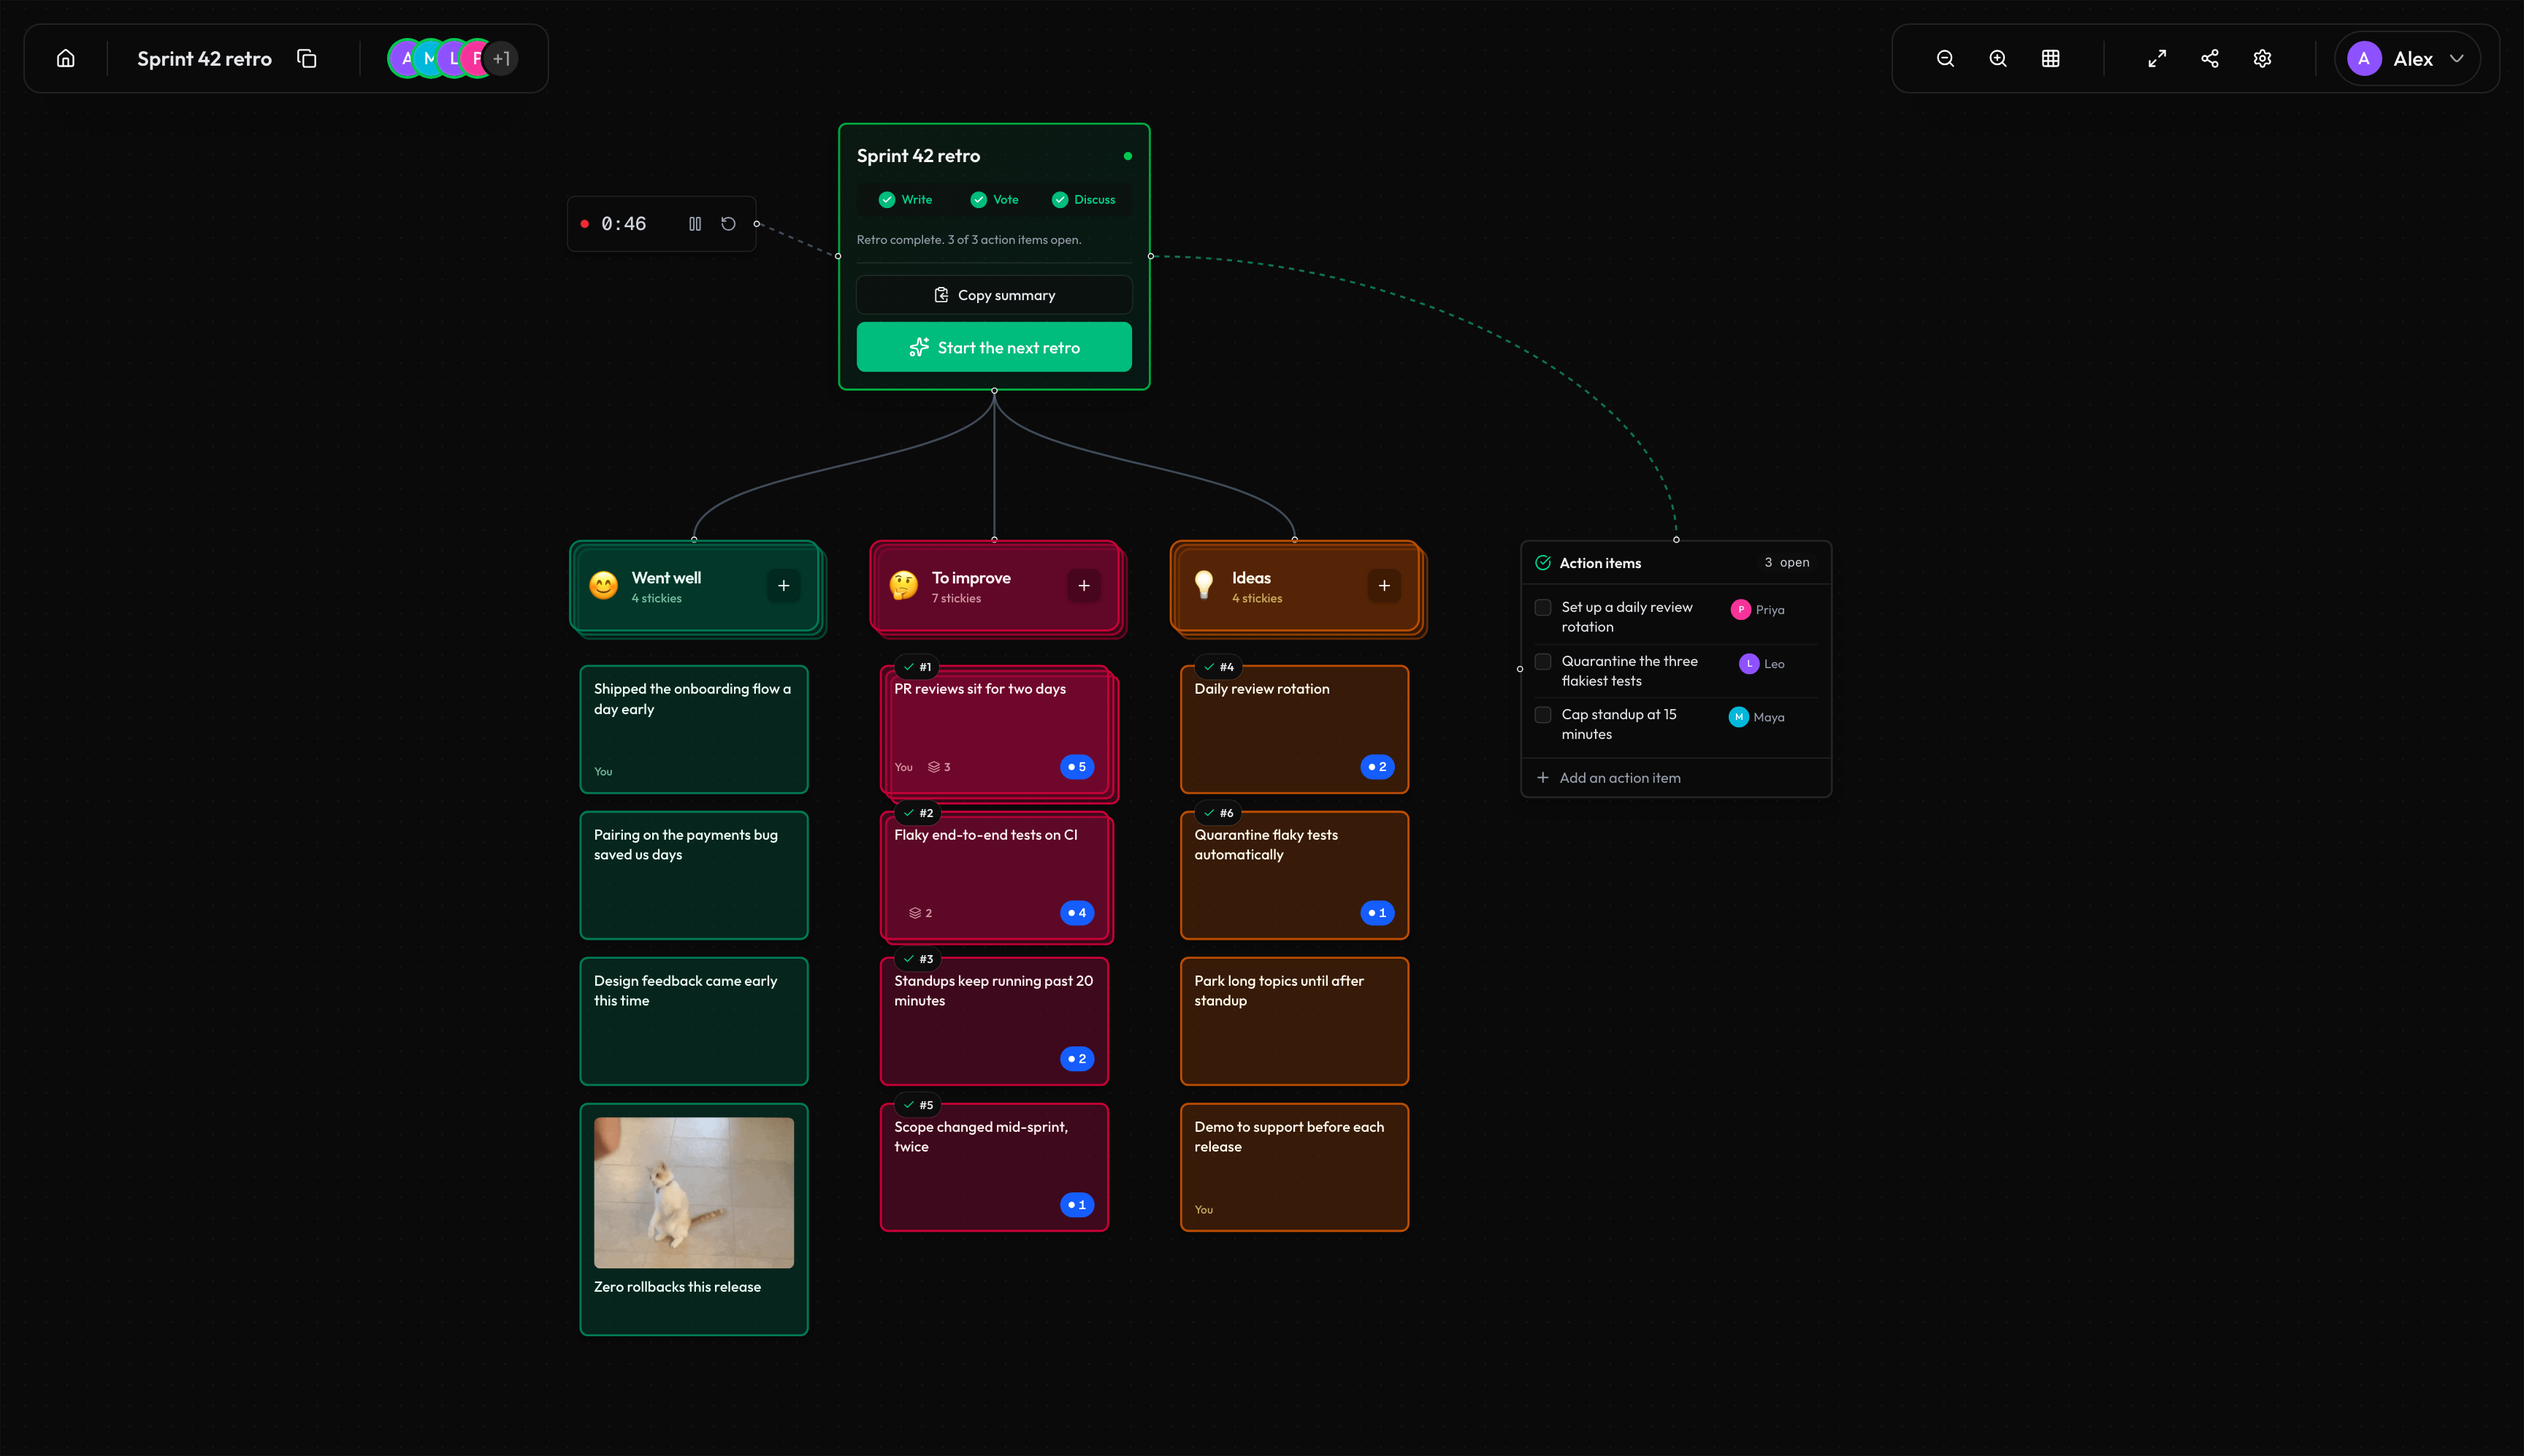
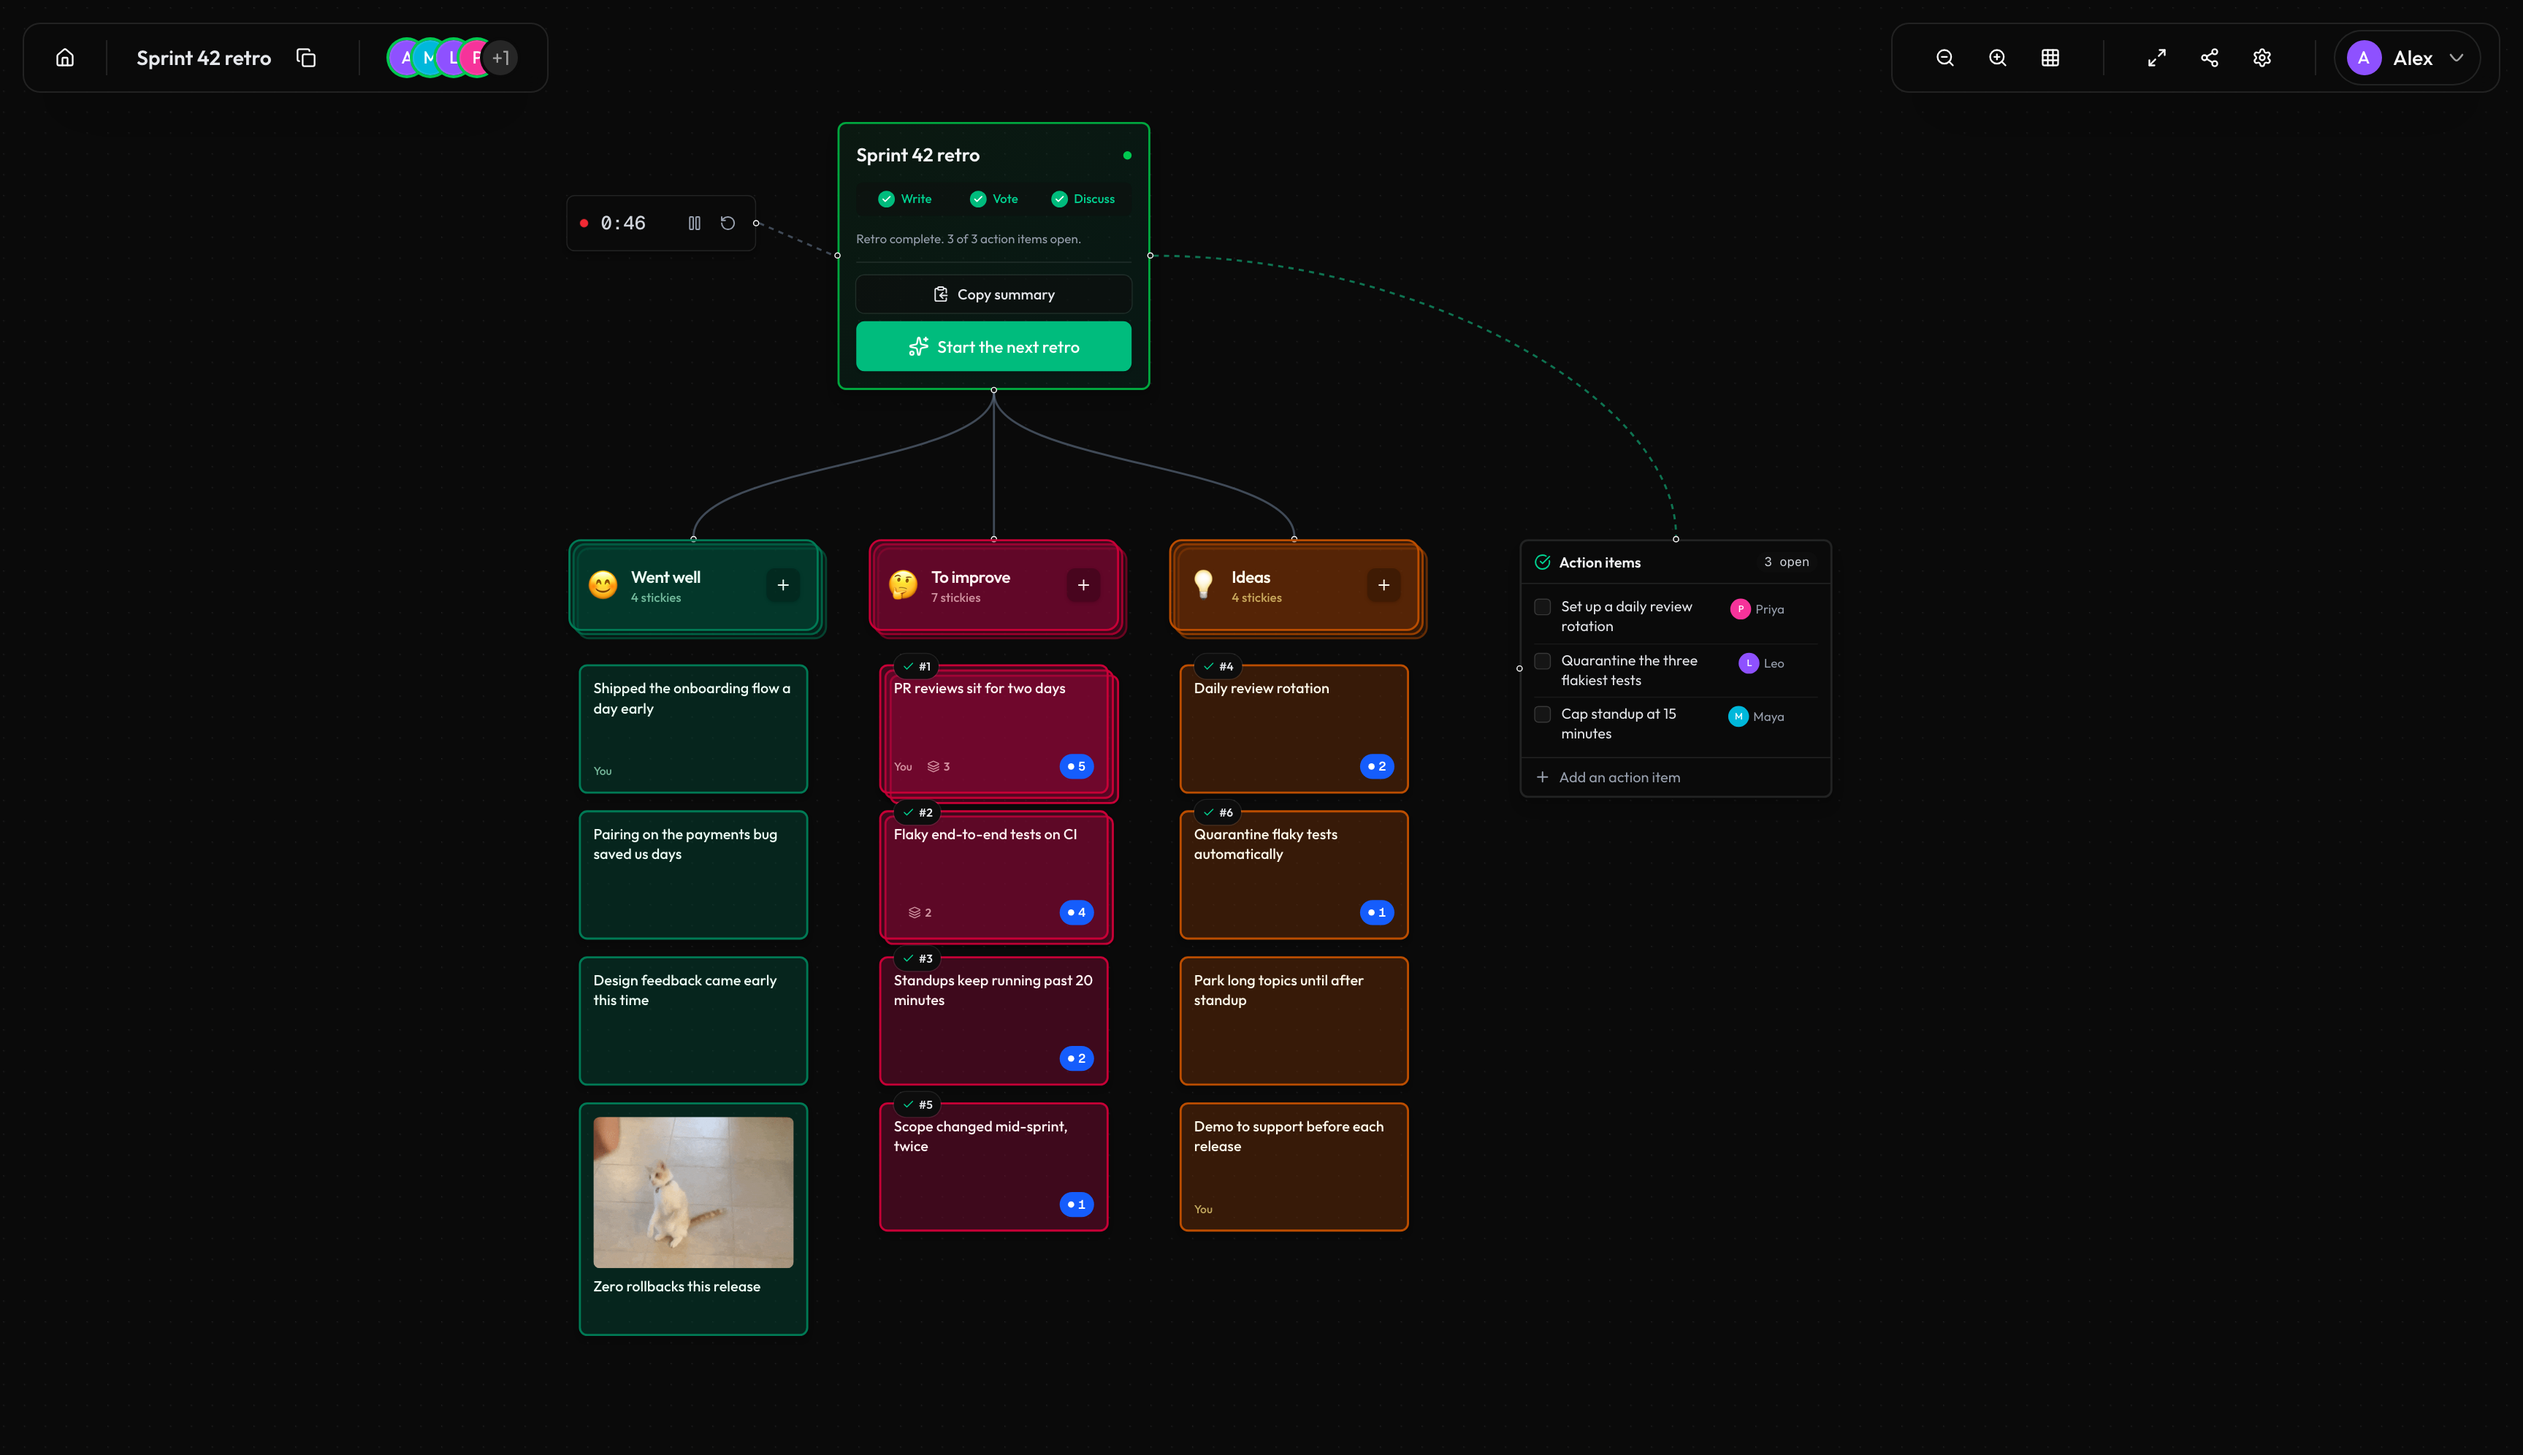
fix: the homepage previews show the whole board
The frame was a 4:3 box (square on phones) with object-cover, so the 16:9 screenshots lost their right side. The frame now takes the screenshot's shape, in a macOS window with an address bar and a glow in the board's colour. The screenshots lose a baked-in 1px border and the poker shots their rounded window corners.

diff --git a/src/components/homepage/app-preview.tsx b/src/components/homepage/app-preview.tsx
@@ -2,9 +2,10 @@
 
 import Image from "next/image";
 import { useState, type ComponentType } from "react";
-import { Zap, Shield, BarChart3, PenLine, EyeOff, ListChecks } from "lucide-react";
+import { Zap, Shield, BarChart3, PenLine, EyeOff, ListChecks, Lock } from "lucide-react";
 import { APP_PREVIEW } from "./copy";
 import { CeremonyTabs, CeremonyTabList, CeremonyTabPanel, type Ceremony } from "./ceremony-tabs";
+import { cn } from "@/lib/utils";
 
 type FeatureId =
   | (typeof APP_PREVIEW.poker.features)[number]["id"]
@@ -22,6 +23,15 @@ const ICONS: Record<FeatureId, ComponentType<{ className?: string; strokeWidth?:
 
 const CEREMONIES: Ceremony[] = ["poker", "retro"];
 
+/** Every board screenshot is captured at this size, so the frame takes its shape and never crops. */
+const SHOT = { width: 3454, height: 1992 };
+
+/** The glow behind the window, in the colour of the board's session node. */
+const GLOW: Record<Ceremony, string> = {
+  poker: "bg-blue-500/15 dark:bg-blue-500/20",
+  retro: "bg-emerald-500/15 dark:bg-emerald-500/20",
+};
+
 /** Both boards (spec §18.2), each captured in light and dark. */
 export function AppPreview() {
   const [ceremony, setCeremony] = useState<Ceremony>("poker");
@@ -34,9 +44,9 @@ export function AppPreview() {
         onValueChange={setCeremony}
         className="mx-auto max-w-[90rem] px-6 lg:px-8"
       >
-        <div className="grid grid-cols-1 lg:grid-cols-12 gap-16 lg:gap-24 items-center">
+        <div className="grid grid-cols-1 lg:grid-cols-[minmax(0,5fr)_minmax(0,8fr)] gap-16 xl:gap-20 items-center">
 
-          <div className="lg:col-span-5 flex flex-col">
+          <div className="flex flex-col">
             <h2 className="text-sm font-bold tracking-widest text-primary uppercase mb-4">
               {APP_PREVIEW.eyebrow}
             </h2>
@@ -75,10 +85,10 @@ export function AppPreview() {
             </div>
           </div>
 
-          <div className="lg:col-span-7 relative">
+          <div className="relative">
             {CEREMONIES.map((c) => (
               <CeremonyTabPanel key={c} value={c}>
-                <PreviewFrame image={APP_PREVIEW[c].image} />
+                <PreviewFrame image={APP_PREVIEW[c].image} glow={GLOW[c]} />
               </CeremonyTabPanel>
             ))}
           </div>
@@ -89,37 +99,49 @@ export function AppPreview() {
   );
 }
 
-function PreviewFrame({ image }: { image: { light: string; dark: string; alt: string } }) {
+function PreviewFrame({
+  image,
+  glow,
+}: {
+  image: { light: string; dark: string; alt: string };
+  glow: string;
+}) {
   return (
-    <div className="relative w-full aspect-square sm:aspect-video lg:aspect-[4/3] rounded-[2rem] overflow-hidden border border-gray-200/80 dark:border-zinc-800/80 bg-white dark:bg-black flex flex-col ring-1 ring-inset ring-black/5 dark:ring-white/5">
-      {/* macOS style browser header */}
-      <div className="flex items-center gap-2 px-4 h-6 sm:h-8 bg-gray-50/80 dark:bg-zinc-900/80 border-b border-gray-200/50 dark:border-zinc-800/50 backdrop-blur-md shrink-0">
-        <div className="flex gap-1.5 sm:gap-2">
-          <div className="w-2 h-2 sm:w-2.5 sm:h-2.5 rounded-full bg-red-400 dark:bg-red-500"></div>
-          <div className="w-2 h-2 sm:w-2.5 sm:h-2.5 rounded-full bg-amber-400 dark:bg-amber-500"></div>
-          <div className="w-2 h-2 sm:w-2.5 sm:h-2.5 rounded-full bg-green-400 dark:bg-green-500"></div>
+    <div className="relative">
+      <div
+        aria-hidden
+        className={cn("pointer-events-none absolute -inset-x-[4%] -inset-y-[8%] rounded-[50%] blur-3xl", glow)}
+      />
+      <figure className="relative overflow-hidden rounded-xl sm:rounded-2xl border border-gray-200 dark:border-zinc-800 bg-white dark:bg-zinc-950 shadow-2xl shadow-gray-900/10 dark:shadow-black/50">
+        {/* macOS style window bar */}
+        <div className="relative flex items-center h-7 sm:h-10 px-3 sm:px-4 bg-gray-50 dark:bg-zinc-900 border-b border-gray-200 dark:border-zinc-800">
+          <div className="flex gap-1.5 sm:gap-2">
+            <div className="size-2 sm:size-3 rounded-full bg-[#ff5f57]" />
+            <div className="size-2 sm:size-3 rounded-full bg-[#febc2e]" />
+            <div className="size-2 sm:size-3 rounded-full bg-[#28c840]" />
+          </div>
+          <div className="absolute left-1/2 -translate-x-1/2 flex items-center gap-1.5 h-4 sm:h-6 px-3 sm:px-10 rounded-md bg-white dark:bg-zinc-950 border border-gray-200 dark:border-zinc-800 text-[9px] sm:text-xs font-medium text-gray-500 dark:text-zinc-400">
+            <Lock className="size-2 sm:size-3" strokeWidth={2.5} />
+            {APP_PREVIEW.address}
+          </div>
         </div>
-      </div>
-      {/* Simulated Glass overlay on top of image container */}
-      <div className="absolute inset-0 pointer-events-none ring-1 ring-inset ring-black/5 dark:ring-white/5 rounded-[2rem] z-10"></div>
-      <div className="relative flex-1 w-full bg-white dark:bg-black">
         <Image
           alt={image.alt}
           src={image.light}
-          fill
-          className="object-cover object-left-top dark:hidden"
-          sizes="(max-width: 1024px) 100vw, 60vw"
-          priority
+          width={SHOT.width}
+          height={SHOT.height}
+          className="block w-full h-auto dark:hidden"
+          sizes="(min-width: 1440px) 820px, (min-width: 1024px) 60vw, 100vw"
         />
         <Image
           alt={image.alt}
           src={image.dark}
-          fill
-          className="object-cover object-left-top hidden dark:block"
-          sizes="(max-width: 1024px) 100vw, 60vw"
-          priority
+          width={SHOT.width}
+          height={SHOT.height}
+          className="hidden w-full h-auto dark:block"
+          sizes="(min-width: 1440px) 820px, (min-width: 1024px) 60vw, 100vw"
         />
-      </div>
+      </figure>
     </div>
   );
 }

diff --git a/src/components/homepage/copy.ts b/src/components/homepage/copy.ts
@@ -161,6 +161,8 @@ export const APP_PREVIEW = {
   description:
     "A distraction-free environment that keeps your team on the conversation, not the tool.",
   tabs: { poker: "Planning poker", retro: "Retro" },
+  /** Shown in the preview window's address bar. */
+  address: "agilekit.app",
   poker: {
     image: {
       light: "/agilekit_light.png",
